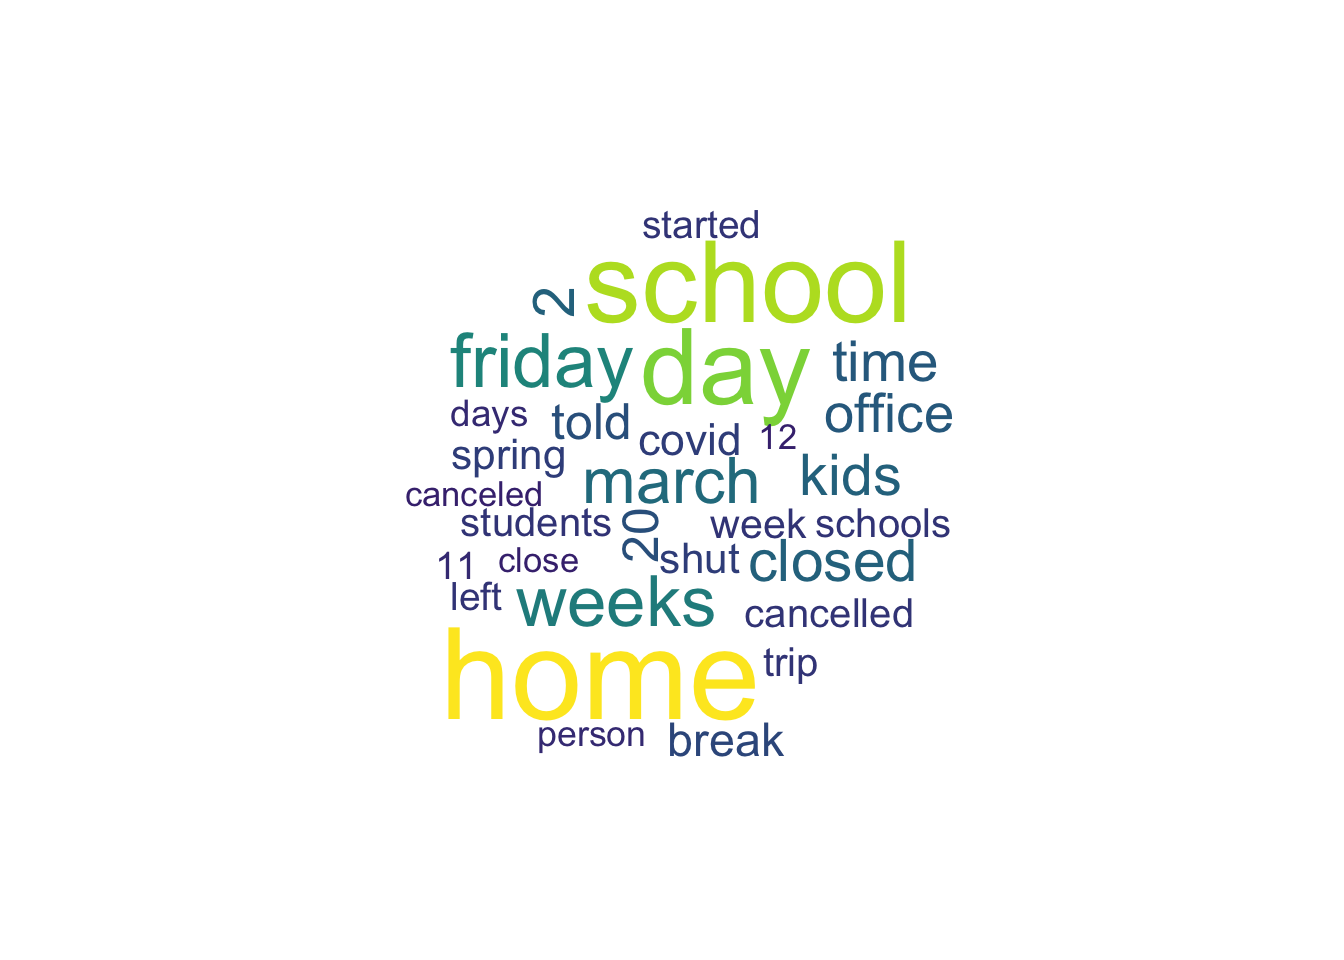
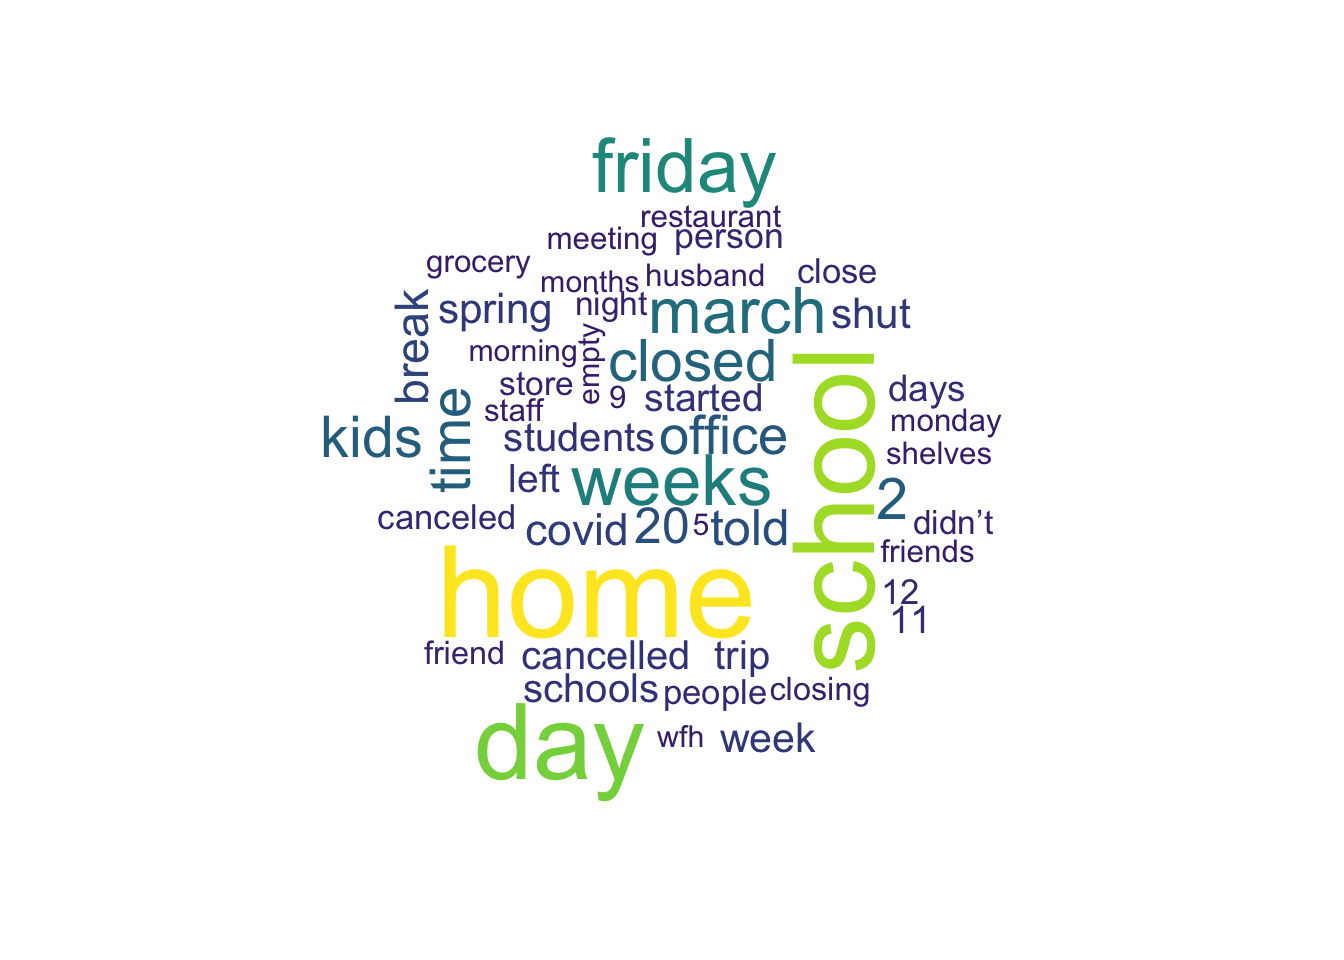
Fig alt text + typos

Changed region(s): [[0.2188, 0.125, 0.75, 0.8438]]

diff --git a/content/post/2021-03-01-themoment-tweets/index.html b/content/post/2021-03-01-themoment-tweets/index.html
@@ -222,7 +222,7 @@ themoment</code></pre>
     y = 205,
     label = &quot;March 13&quot;
   )</code></pre>
-<p><img src="{{< blogdown/postref >}}index_files/figure-html/unnamed-chunk-14-1.png" width="672" /></p>
+<p><img src="{{< blogdown/postref >}}index_files/figure-html/unnamed-chunk-14-1.png" title="Very few tweets mentioning dates December through March, then a steady increase until a peak on March 13, and then a decline with a tail extending all the way to the end of May. There were over 200 tweets mentioning March 13," alt="Very few tweets mentioning dates December through March, then a steady increase until a peak on March 13, and then a decline with a tail extending all the way to the end of May. There were over 200 tweets mentioning March 13," width="100%" /></p>
 </div>
 <div id="what-happened-on-march-13-2020" class="section level2">
 <h2>What happened on March 13, 2020?</h2>
@@ -266,11 +266,11 @@ march_13_regex &lt;- glue_collapse(march_13_text, sep = &quot;|&quot;)</code></p
 <pre class="r"><code>march_13_words %&gt;%
   count(word) %&gt;%
   filter(!(word %in% c(&quot;3&quot;, &quot;2020&quot;, &quot;amp&quot;, &quot;https&quot;, &quot;t.co&quot;))) %&gt;%
-  with(wordcloud(word, n, max.words = 30, colors = viridis::viridis(n = 30)))</code></pre>
-<p><img src="{{< blogdown/postref >}}index_files/figure-html/unnamed-chunk-18-1.png" width="672" /></p>
+  with(wordcloud(word, n, max.words = 50, colors = viridis::viridis(n = 50)))</code></pre>
+<p><img src="{{< blogdown/postref >}}index_files/figure-html/unnamed-chunk-18-1.png" title="Wordcloud that shows the 50 most common words in tweets that mention March 13 in their text. Home, school, day, friday, and week are prominently bigger than other words." alt="Wordcloud that shows the 50 most common words in tweets that mention March 13 in their text. Home, school, day, friday, and week are prominently bigger than other words." width="50%" /></p>
 </div>
-<div id="tom-hanks-spring-and-the-nba" class="section level2">
-<h2>Tom Hanks, spring and the NBA</h2>
+<div id="tom-hanks-the-nba-and-spring-break" class="section level2">
+<h2>Tom Hanks, the NBA, and spring break</h2>
 <p>As I was perusing the data throughout this analysis, mentions of Tom Hanks and NBA seemed quite frequent. This was surprising to be since the NBA is rarely on my radar (and less so now that I’m in the UK) and I was not expecting the Tom Hanks celebrity effect! Another phrase that stood out was spring break, which is not too unexpected.</p>
 <p>Let’s take a look at how many tweets mention these, out of the 5969 total.</p>
 <pre class="r"><code>replies %&gt;%

diff --git a/layouts/shortcodes/blogdown/postref.html b/layouts/shortcodes/blogdown/postref.html
@@ -1,1 +1,1 @@
-{{ .Page.Permalink }}
+{{ .Page.RelPermalink }}
